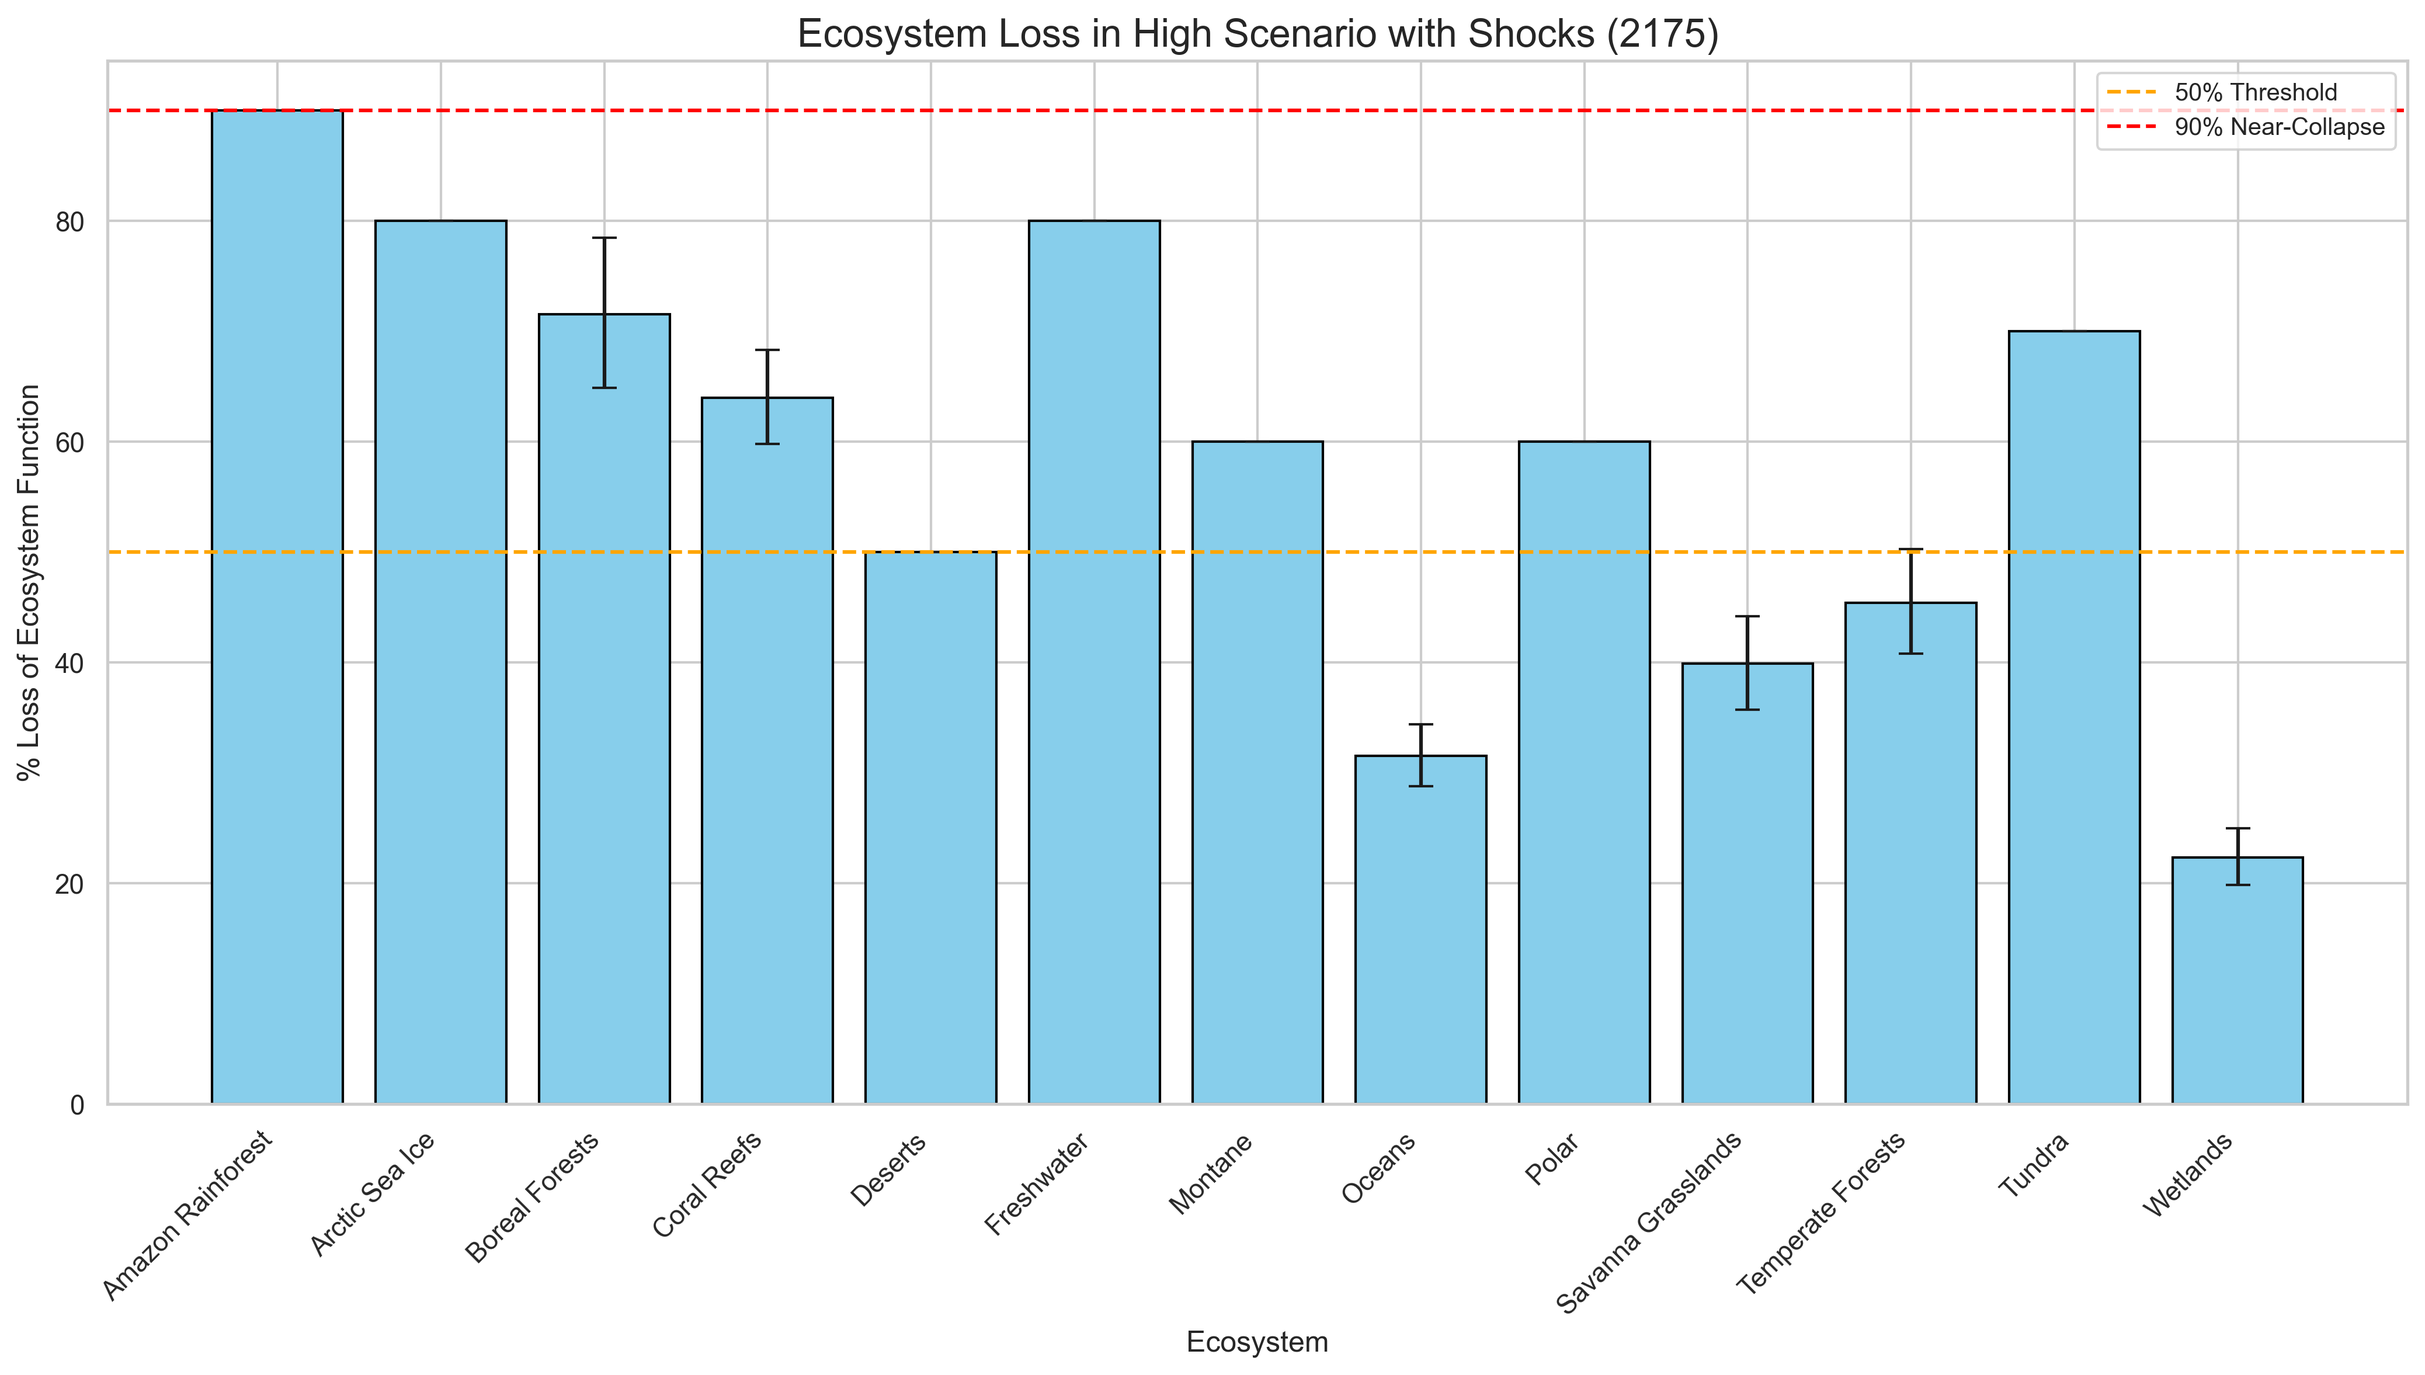
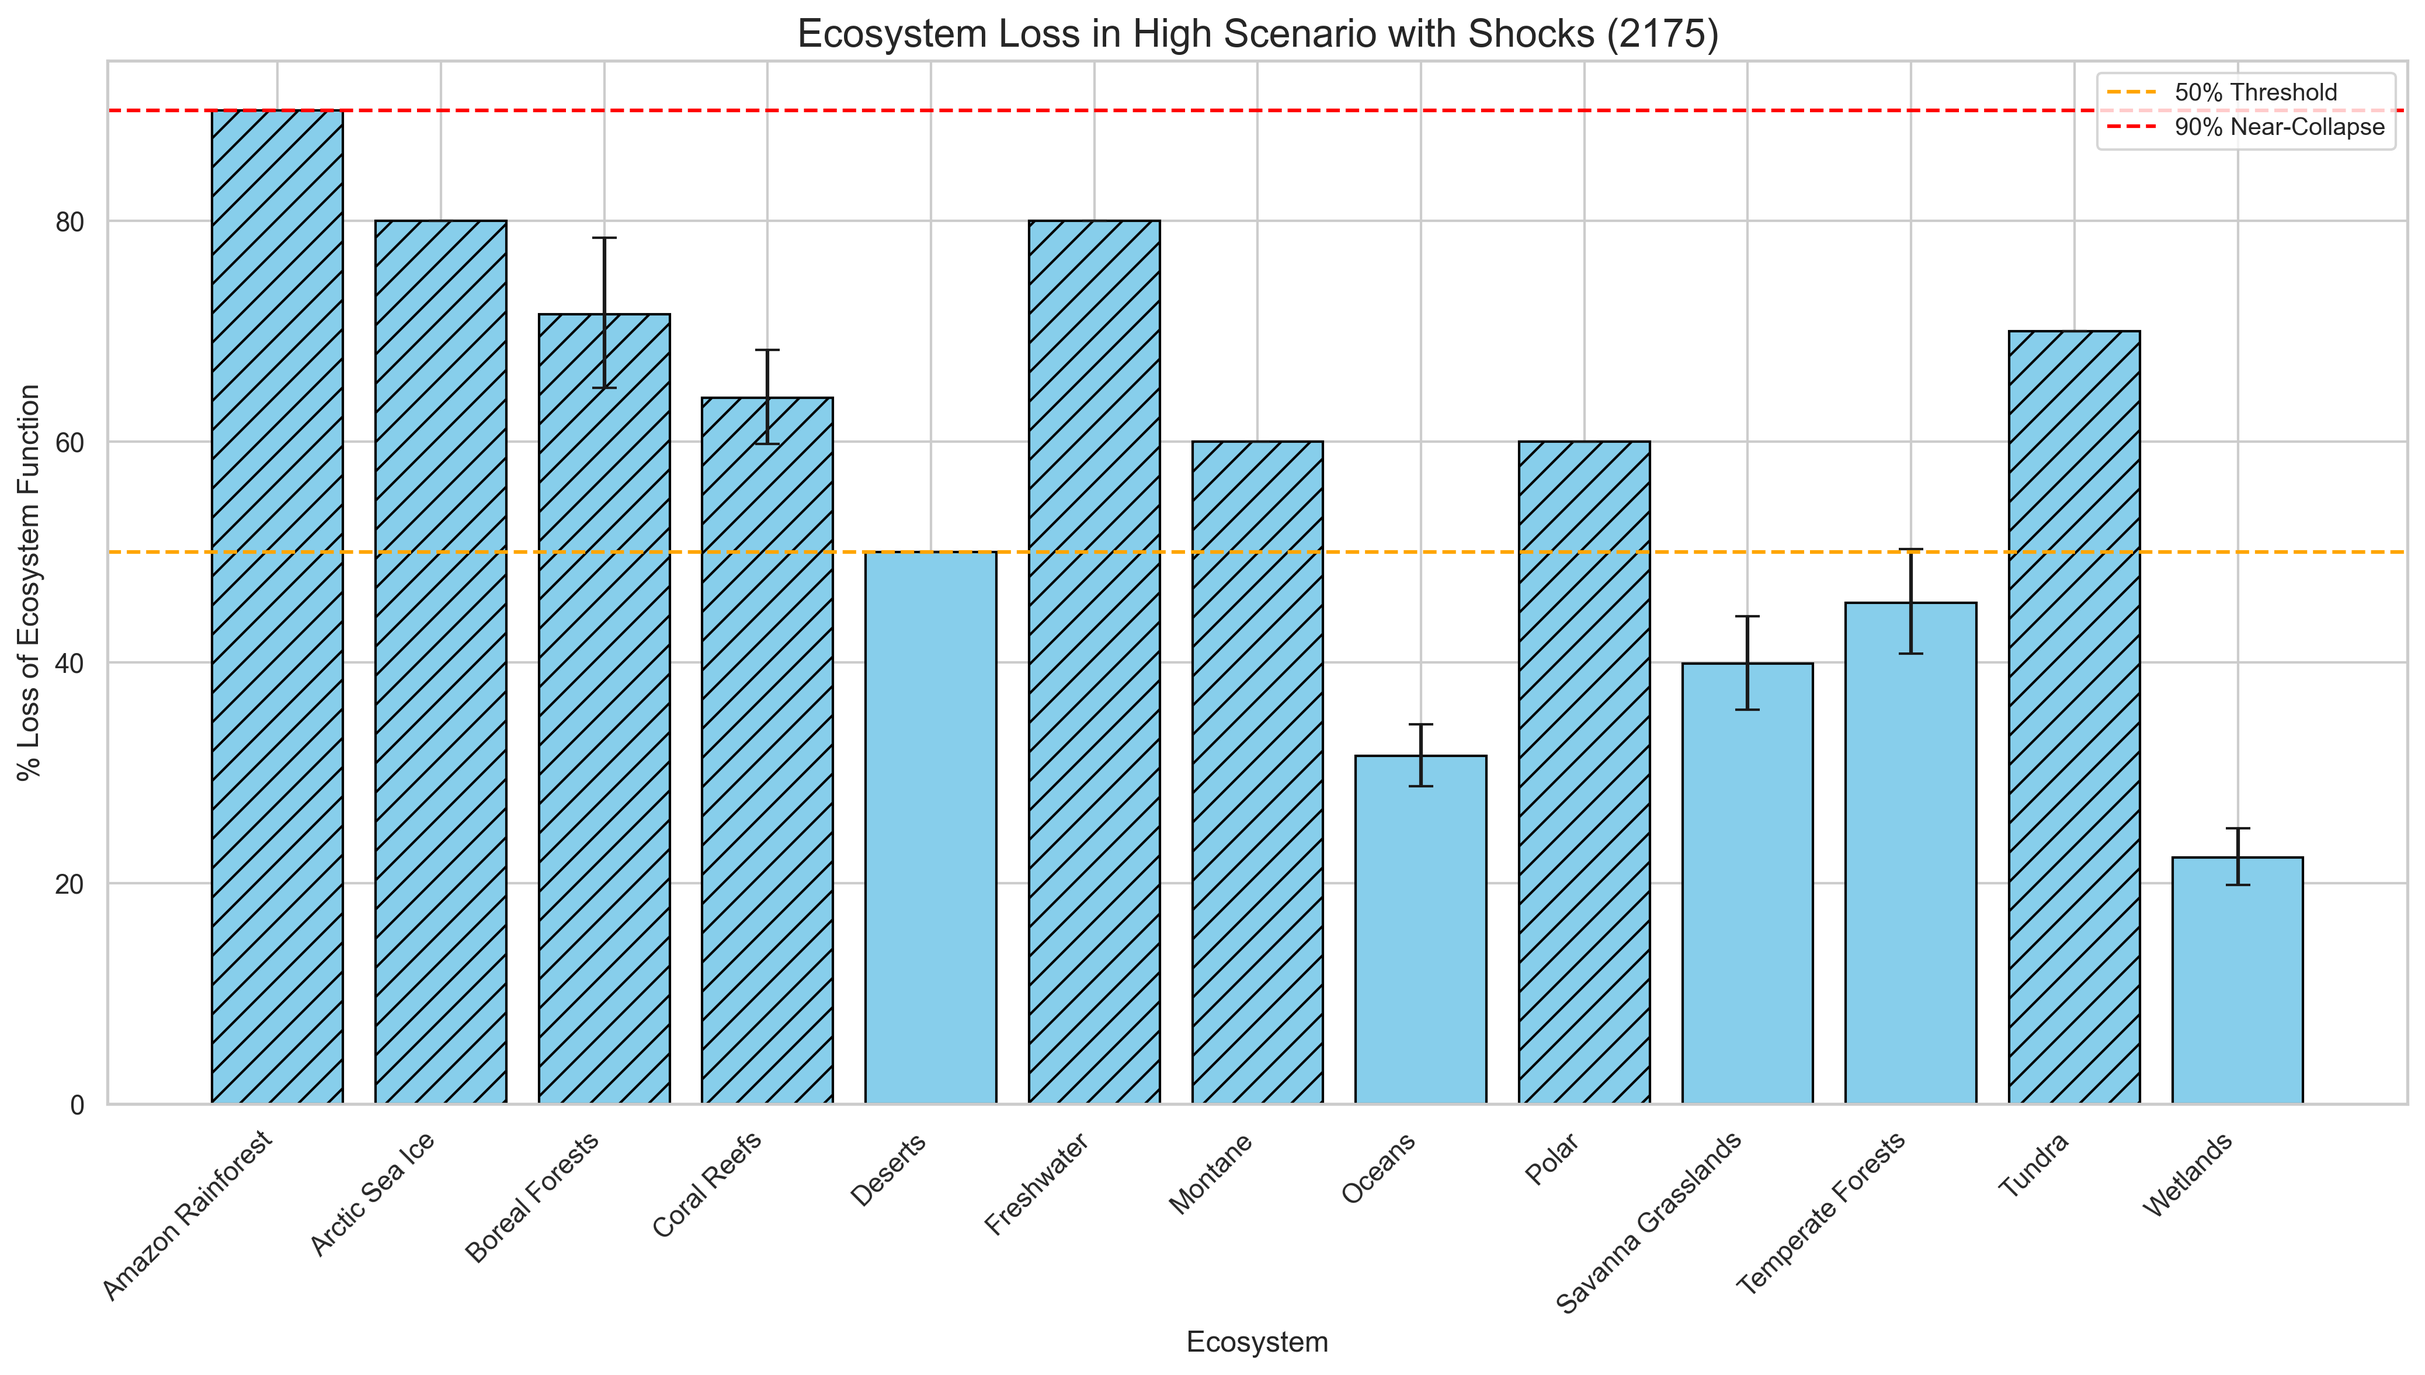
better plots

diff --git a/simulations/plots.py b/simulations/plots.py
@@ -9,63 +9,86 @@ BASE_DIR = os.path.abspath(os.path.join(os.path.dirname(__file__), ".."))
 DATA_DIR = os.path.join(BASE_DIR, 'data')
 FIGURES_DIR = os.path.join(BASE_DIR, 'figures')
 
-# Debugging: Print paths to verify
 print(f"BASE_DIR: {BASE_DIR}")
 print(f"DATA_DIR: {DATA_DIR}")
 print(f"FIGURES_DIR: {FIGURES_DIR}")
 
-# Create directories if they don’t exist
 os.makedirs(DATA_DIR, exist_ok=True)
 os.makedirs(FIGURES_DIR, exist_ok=True)
 
-# Define ecosystems inline (from ecosystem_cascade.py)
 ecosystems = [
     'Amazon Rainforest', 'Coral Reefs', 'Arctic Sea Ice', 'Boreal Forests',
     'Savanna Grasslands', 'Wetlands', 'Oceans', 'Temperate Forests',
     'Deserts', 'Tundra', 'Montane', 'Freshwater', 'Polar'
 ]
 transform_threshold = 0.5
+transform_targets = {
+    'Amazon Rainforest': 'Savanna Grasslands', 'Coral Reefs': 'Oceans',
+    'Arctic Sea Ice': 'Oceans', 'Boreal Forests': 'Savanna Grasslands',
+    'Savanna Grasslands': None, 'Wetlands': 'Savanna Grasslands',
+    'Oceans': None, 'Temperate Forests': 'Savanna Grasslands',
+    'Deserts': None, 'Tundra': 'Savanna Grasslands',
+    'Montane': 'Savanna Grasslands', 'Freshwater': 'Wetlands', 'Polar': 'Oceans'
+}
+species_weights = {
+    'Amazon Rainforest': 0.125, 'Coral Reefs': 0.07, 'Arctic Sea Ice': 0.0075,
+    'Boreal Forests': 0.065, 'Savanna Grasslands': 0.06, 'Wetlands': 0.08,
+    'Oceans': 0.20, 'Temperate Forests': 0.10, 'Deserts': 0.05, 'Tundra': 0.02,
+    'Montane': 0.08, 'Freshwater': 0.10, 'Polar': 0.01
+}
 
-# Load simulation results
+# Load simulation results and shock logs
 results_no_shock_path = os.path.join(DATA_DIR, 'ecosystem_cascade_results_no_shock.csv')
 results_with_shock_path = os.path.join(DATA_DIR, 'ecosystem_cascade_results_with_shock.csv')
+shock_log_path = os.path.join(DATA_DIR, 'shock_log_high.csv')
 df_no_shock = pd.read_csv(results_no_shock_path)
 df_with_shock = pd.read_csv(results_with_shock_path)
+shock_log = pd.read_csv(shock_log_path)
 
-# Set style
 sns.set(style="whitegrid")
 
-# --- Plot 1: Shock vs. No-Shock Overlay ---
+# --- Plot 1: Shock vs. No-Shock Overlay with CI ---
 plt.figure(figsize=(12, 8))
-years = np.unique(df_no_shock['Year'])
-for scenario in ['Low', 'Mid', 'High']:
+years = np.unique(df_no_shock['Year'])  # Should be 15 (2025–2175, step 10)
+for scenario in ['High']:
     no_shock_mean = df_no_shock[df_no_shock['Scenario'] == scenario].groupby('Year')['Loss'].mean() * 100
+    no_shock_ci_low = df_no_shock[df_no_shock['Scenario'] == scenario].groupby('Year')['Loss'].quantile(0.025) * 100
+    no_shock_ci_high = df_no_shock[df_no_shock['Scenario'] == scenario].groupby('Year')['Loss'].quantile(0.975) * 100
     with_shock_mean = df_with_shock[df_with_shock['Scenario'] == scenario].groupby('Year')['Loss'].mean() * 100
-    plt.plot(years, no_shock_mean, label=f'{scenario} (No Shock)', linestyle='--', linewidth=2)
-    plt.plot(years, with_shock_mean, label=f'{scenario} (With Shock)', linestyle='-', linewidth=2)
+    with_shock_ci_low = df_with_shock[df_with_shock['Scenario'] == scenario].groupby('Year')['Loss'].quantile(0.025) * 100
+    with_shock_ci_high = df_with_shock[df_with_shock['Scenario'] == scenario].groupby('Year')['Loss'].quantile(0.975) * 100
+    
+    plt.plot(years, no_shock_mean, label=f'{scenario} (No Shock)', linestyle='--', color='gray', linewidth=2)
+    plt.fill_between(years, no_shock_ci_low, no_shock_ci_high, color='gray', alpha=0.2)
+    plt.plot(years, with_shock_mean, label=f'{scenario} (With Shock)', linestyle='-', color='blue', linewidth=2)
+    plt.fill_between(years, with_shock_ci_low, with_shock_ci_high, color='lightblue', alpha=0.3)
 
-plt.axhline(y=50, color='orange', linestyle='--', label='50% Threshold (Food/Health Risks)')
-plt.axhline(y=70, color='red', linestyle='--', label='70% Threshold (Survival Threat)')
-plt.title('Biodiversity Loss: Shock vs. No-Shock Scenarios (2025–2175)', fontsize=16)
+plt.axhline(y=50, color='orange', linestyle='--', label='50% Threshold')
+plt.axhline(y=70, color='red', linestyle='--', label='70% Threshold')
+plt.title('High Scenario Biodiversity Loss: Shock vs. No-Shock with 95% CI (2025–2175)', fontsize=16)
 plt.xlabel('Year', fontsize=12)
 plt.ylabel('% Total Biodiversity Loss', fontsize=12)
 plt.legend(title='Scenario', fontsize=10, loc='upper left')
-plt.savefig(os.path.join(FIGURES_DIR, 'shock_vs_no_shock_overlay.png'), dpi=300, bbox_inches='tight')
+plt.savefig(os.path.join(FIGURES_DIR, 'shock_vs_no_shock_overlay_with_ci.png'), dpi=300, bbox_inches='tight')
 plt.close()
 
-# --- Plot 2: Ecosystem Breakdown (Bar Chart, High Scenario with Shocks) ---
+# --- Plot 2: Ecosystem Breakdown with Transformation Flags ---
 plt.figure(figsize=(14, 8))
 high_shock_2175 = df_with_shock[(df_with_shock['Scenario'] == 'High') & (df_with_shock['Year'] == 2175)]
 mean_losses = high_shock_2175.groupby('Ecosystem')['Loss'].mean() * 100
 ci_low = high_shock_2175.groupby('Ecosystem')['Loss'].quantile(0.025) * 100
 ci_high = high_shock_2175.groupby('Ecosystem')['Loss'].quantile(0.975) * 100
+transformed = mean_losses >= (transform_threshold * 100)
 
-# Fix error bars: ensure non-negative distances
 lower_errors = np.maximum(mean_losses - ci_low, 0)
 upper_errors = ci_high - mean_losses
 errors = [lower_errors, upper_errors]
 
-plt.bar(mean_losses.index, mean_losses, yerr=errors, capsize=5, color='skyblue', edgecolor='black')
+bars = plt.bar(mean_losses.index, mean_losses, yerr=errors, capsize=5, color='skyblue', edgecolor='black')
+for bar, is_transformed in zip(bars, transformed):
+    if is_transformed:
+        bar.set_hatch('//')
+
 plt.axhline(y=50, color='orange', linestyle='--', label='50% Threshold')
 plt.axhline(y=90, color='red', linestyle='--', label='90% Near-Collapse')
 plt.title('Ecosystem Loss in High Scenario with Shocks (2175)', fontsize=16)
@@ -77,13 +100,11 @@ plt.tight_layout()
 plt.savefig(os.path.join(FIGURES_DIR, 'ecosystem_breakdown_2175_high_shock.png'), dpi=300, bbox_inches='tight')
 plt.close()
 
-# --- Plot 3: Shock Impact (Sample Runs with Vertical Lines) ---
+# --- Plot 3: Shock Impact with Weighted Loss and Exact Shocks ---
 plt.figure(figsize=(14, 8))
-sample_runs = 5  # Show 5 random iterations
+sample_runs = 5
 high_shock_df = df_with_shock[df_with_shock['Scenario'] == 'High']
-
-# Group by iteration (assuming 15 years per run, 13 ecosystems)
-n_years = len(np.unique(high_shock_df['Year']))  # Should be 15
+n_years = len(years)  # 15
 n_ecosystems = len(ecosystems)  # 13
 rows_per_run = n_years * n_ecosystems
 total_runs = len(high_shock_df) // rows_per_run
@@ -93,23 +114,28 @@ for run_id in run_ids:
     start_idx = run_id * rows_per_run
     end_idx = (run_id + 1) * rows_per_run
     run_data = high_shock_df.iloc[start_idx:end_idx]
-    if len(run_data) == rows_per_run:  # Ensure full run data
-        total_loss = run_data.groupby('Year')['Loss'].mean() * 100
-        plt.plot(years, total_loss, label=f'Run {run_id}', alpha=0.7, linewidth=1.5)
+    if len(run_data) == rows_per_run:
+        # Weighted total loss per year
+        weighted_loss = np.zeros(n_years)
+        for i, year in enumerate(years):
+            year_data = run_data[run_data['Year'] == year]
+            weighted_loss[i] = sum(year_data[year_data['Ecosystem'] == eco]['Loss'].mean() * species_weights[eco]
+                                  for eco in ecosystems) * 100
+        plt.plot(years, weighted_loss, label=f'Run {run_id}', alpha=0.7, linewidth=1.5)
         
-        # Detect shock years (significant jumps or drops)
-        loss_diff = np.diff(total_loss)
-        shock_years = years[1:][(loss_diff > 3) | (loss_diff < -2)]
-        for shock_year in shock_years:
-            plt.axvline(x=shock_year, color='gray', linestyle='--', alpha=0.5)
+        # Exact shock years from log
+        run_shocks = shock_log[shock_log['iteration'] == run_id]
+        for _, shock in run_shocks.iterrows():
+            color = 'green' if shock['type'] == 'positive' else 'purple'
+            plt.axvline(x=shock['year'], color=color, linestyle='--', alpha=0.5)
 
 plt.axhline(y=50, color='orange', linestyle='--', label='50% Threshold')
 plt.axhline(y=70, color='red', linestyle='--', label='70% Threshold')
-plt.title('Shock Impacts on Total Loss (High Scenario, Sample Runs)', fontsize=16)
+plt.title('Shock Impacts on Weighted Total Loss (High Scenario, Sample Runs)', fontsize=16)
 plt.xlabel('Year', fontsize=12)
-plt.ylabel('% Total Biodiversity Loss', fontsize=12)
+plt.ylabel('% Total Biodiversity Loss (Weighted)', fontsize=12)
 plt.legend(title='Sample Runs', fontsize=10, loc='upper left')
-plt.savefig(os.path.join(FIGURES_DIR, 'shock_impact_sample_runs.png'), dpi=300, bbox_inches='tight')
+plt.savefig(os.path.join(FIGURES_DIR, 'shock_impact_sample_runs_weighted.png'), dpi=300, bbox_inches='tight')
 plt.close()
 
 print(f"Graphs saved to '{FIGURES_DIR}'")

diff --git a/simulations/ecosystem_cascade.py b/simulations/ecosystem_cascade.py
@@ -49,9 +49,8 @@ cascade_effects = {
     'Polar': {'Arctic Sea Ice': 1.1}
 }
 
-# Black swan shock parameters
-shock_annual_prob = 0.05  # 5% chance per decade
-shock_magnitude = {'positive': -0.02, 'negative': 0.03}  # Adjust loss rates: -2% or +3%
+shock_annual_prob = 0.05
+shock_magnitude = {'positive': -0.02, 'negative': 0.03}
 
 transform_threshold = 0.5
 transform_targets = {
@@ -69,11 +68,19 @@ final_baselines = {
     'Tundra': 0.30, 'Montane': 0.40, 'Freshwater': 0.20, 'Polar': 0.40
 }
 
+species_weights = {
+    'Amazon Rainforest': 0.125, 'Coral Reefs': 0.07, 'Arctic Sea Ice': 0.0075,
+    'Boreal Forests': 0.065, 'Savanna Grasslands': 0.06, 'Wetlands': 0.08,
+    'Oceans': 0.20, 'Temperate Forests': 0.10, 'Deserts': 0.05, 'Tundra': 0.02,
+    'Montane': 0.08, 'Freshwater': 0.10, 'Polar': 0.01
+}
+
 def run_ecosystem_simulation(scenario, include_shocks=False):
     loss_dict = {eco: np.zeros((n_iter, len(years))) for eco in ecosystems}
     transformed = {eco: np.zeros(n_iter, dtype=bool) for eco in ecosystems}
     shock_events = np.random.binomial(1, shock_annual_prob, size=(n_iter, len(years))) if include_shocks else np.zeros((n_iter, len(years)))
     shock_types = np.random.choice(['positive', 'negative'], size=(n_iter, len(years))) if include_shocks else np.full((n_iter, len(years)), 'none')
+    shock_log = []  # Log shocks: iteration, year, type
 
     for t, year in enumerate(years):
         for eco in ecosystems:
@@ -83,14 +90,19 @@ def run_ecosystem_simulation(scenario, include_shocks=False):
             mean_loss = (base_loss_means[eco][scenario] if not np.any(transformed[eco])
                          else (base_loss_means[target_eco][scenario] if target_eco else base_loss_means[eco][scenario]))
             
-            # Apply black swan shock if present
             shock_adjust = np.where(shock_events[:, t], 
                                   np.where(shock_types[:, t] == 'positive', shock_magnitude['positive'], shock_magnitude['negative']), 
                                   0)
-            adjusted_mean_loss = np.clip(mean_loss + shock_adjust, 0, 0.15)  # Cap to avoid unrealistic rates
+            adjusted_mean_loss = np.clip(mean_loss + shock_adjust, 0, 0.15)
             
             annual_loss = stats.norm(loc=adjusted_mean_loss, scale=base_loss_std).rvs(n_iter)
             loss_dict[eco][:, t] = loss_dict[eco][:, t-1] + annual_loss if t > 0 else annual_loss
+            
+            # Log shocks for this timestep
+            if include_shocks:
+                for i in range(n_iter):
+                    if shock_events[i, t]:
+                        shock_log.append({'iteration': i, 'year': year, 'type': shock_types[i, t]})
             
             for source_eco, targets in cascade_effects.items():
                 if eco in targets:
@@ -104,20 +116,15 @@ def run_ecosystem_simulation(scenario, include_shocks=False):
             max_loss = 1.0 - final_baselines[eco]
             loss_dict[eco][:, t] = np.minimum(loss_dict[eco][:, t], max_loss)
     
-    return loss_dict
+    return loss_dict, shock_log
 
-# Run simulations: no shocks and with shocks
-results_no_shock = {scenario: run_ecosystem_simulation(scenario, include_shocks=False) for scenario in ['Low', 'Mid', 'High']}
-results_with_shock = {scenario: run_ecosystem_simulation(scenario, include_shocks=True) for scenario in ['Low', 'Mid', 'High']}
+# Run simulations
+results_no_shock = {scenario: run_ecosystem_simulation(scenario, include_shocks=False)[0] for scenario in ['Low', 'Mid', 'High']}
+results_with_shock, shock_logs = {}, {}
+for scenario in ['Low', 'Mid', 'High']:
+    results_with_shock[scenario], shock_logs[scenario] = run_ecosystem_simulation(scenario, include_shocks=True)
 
-species_weights = {
-    'Amazon Rainforest': 0.125, 'Coral Reefs': 0.07, 'Arctic Sea Ice': 0.0075,
-    'Boreal Forests': 0.065, 'Savanna Grasslands': 0.06, 'Wetlands': 0.08,
-    'Oceans': 0.20, 'Temperate Forests': 0.10, 'Deserts': 0.05, 'Tundra': 0.02,
-    'Montane': 0.08, 'Freshwater': 0.10, 'Polar': 0.01
-}
-
-# Calculate total loss for both runs
+# Calculate total loss
 total_loss_no_shock = {scenario: np.zeros((n_iter, len(years))) for scenario in ['Low', 'Mid', 'High']}
 total_loss_with_shock = {scenario: np.zeros((n_iter, len(years))) for scenario in ['Low', 'Mid', 'High']}
 
@@ -150,7 +157,7 @@ for scenario in ['Low', 'Mid', 'High']:
     if total_mean_2175 > 70:
         print(f"WARNING: {total_mean_2175:.1f}% loss by 2175 exceeds 70% - survival threat.")
 
-# Plot total loss (with shocks only, since no-shock plot exists)
+# Plot total loss with shocks
 plt.figure(figsize=(12, 8))
 sns.set(style="whitegrid")
 for scenario in ['Low', 'Mid', 'High']:
@@ -192,4 +199,11 @@ results_df_with_shock = pd.concat(all_data_with_shock, ignore_index=True)
 os.makedirs(DATA_DIR, exist_ok=True)
 results_df_no_shock.to_csv(os.path.join(DATA_DIR, 'ecosystem_cascade_results_no_shock.csv'), index=False)
 results_df_with_shock.to_csv(os.path.join(DATA_DIR, 'ecosystem_cascade_results_with_shock.csv'), index=False)
+
+# Save shock logs
+for scenario in ['Low', 'Mid', 'High']:
+    shock_df = pd.DataFrame(shock_logs[scenario])
+    shock_df.to_csv(os.path.join(DATA_DIR, f'shock_log_{scenario.lower()}.csv'), index=False)
+
 print(f"Results saved to '{os.path.join(DATA_DIR, 'ecosystem_cascade_results_no_shock.csv')}' and '{os.path.join(DATA_DIR, 'ecosystem_cascade_results_with_shock.csv')}'")
+print(f"Shock logs saved to '{os.path.join(DATA_DIR, 'shock_log_high.csv')}' (and Low/Mid)")
